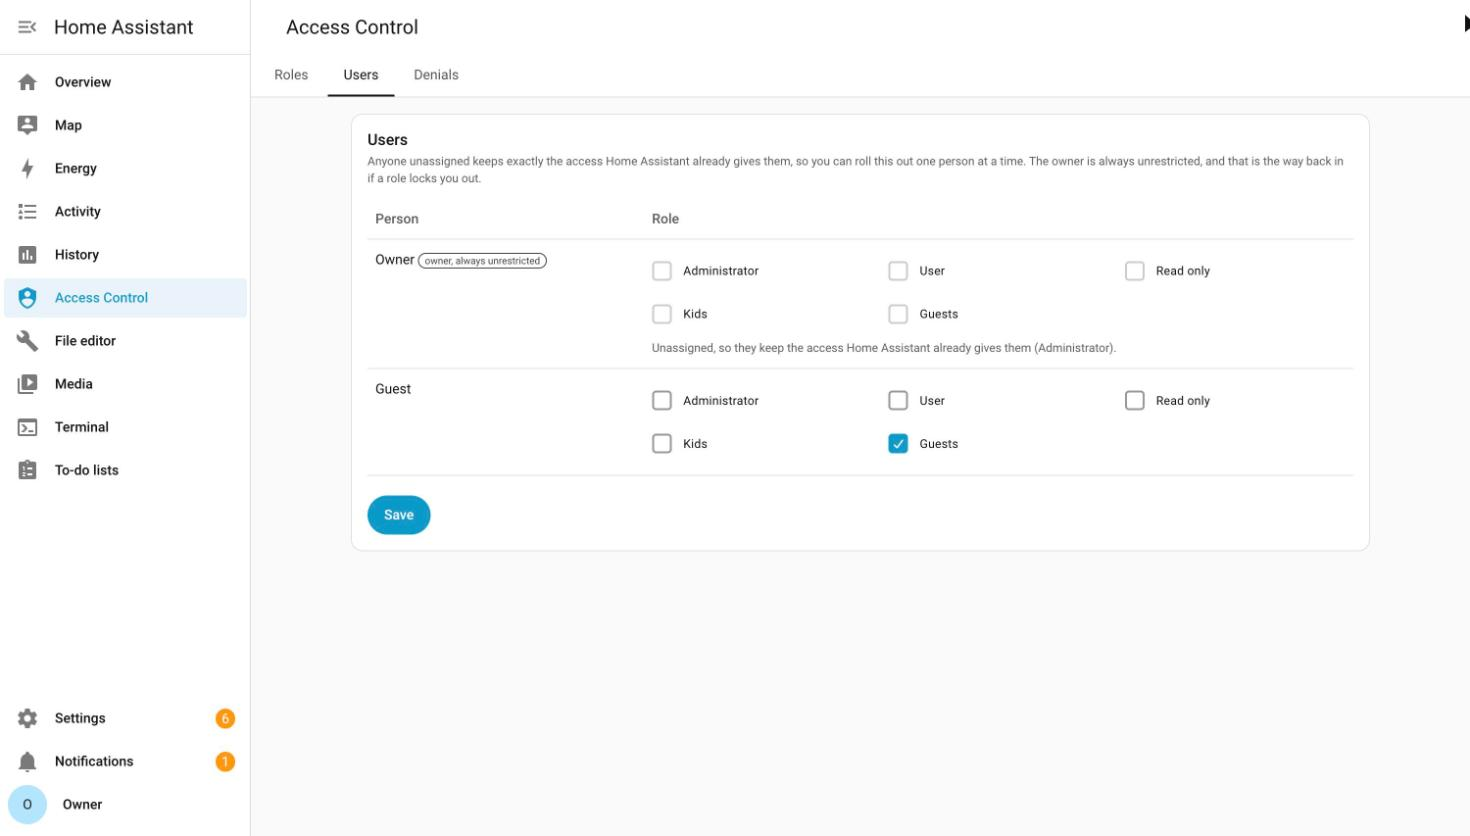
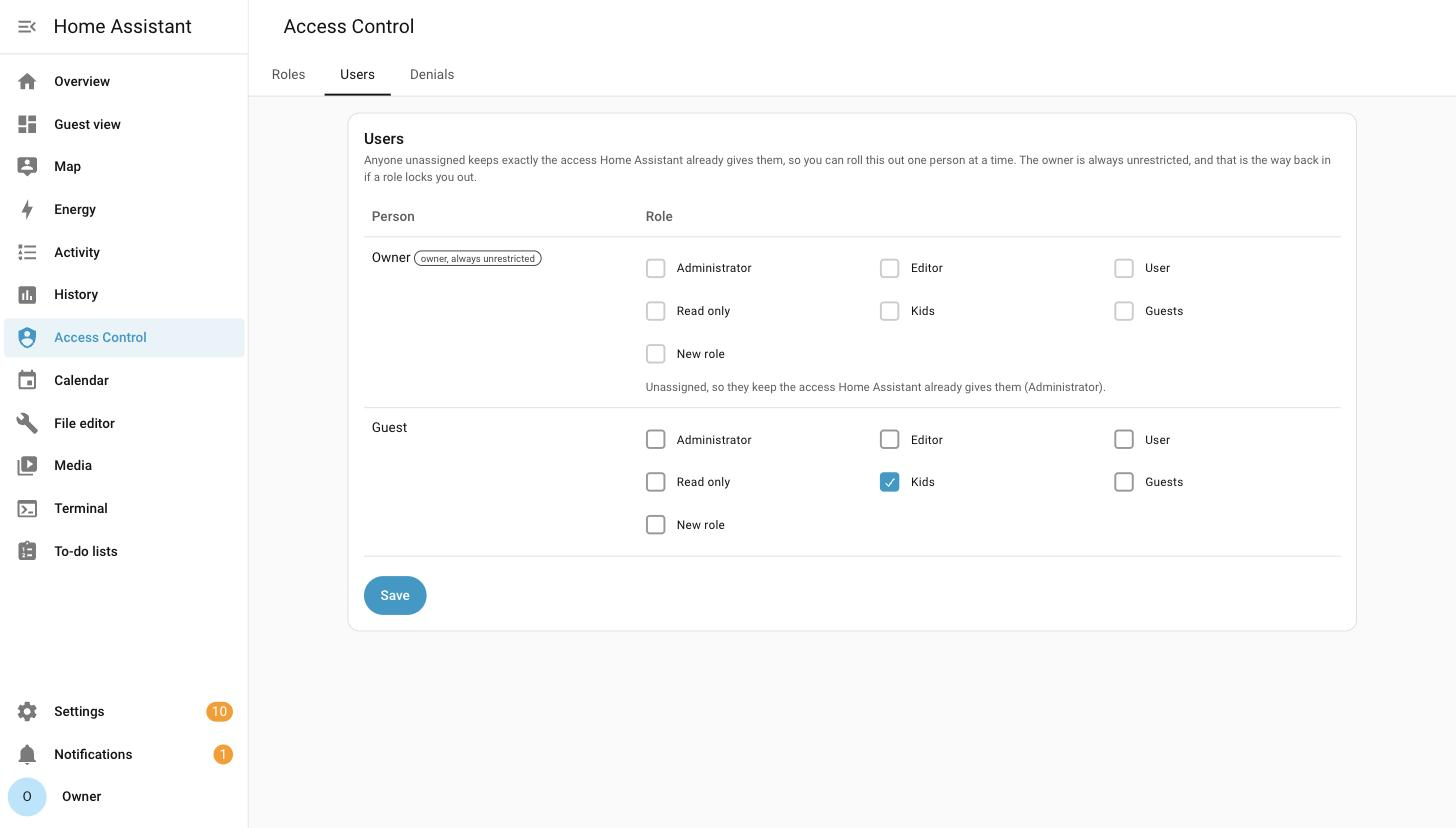
Reshoot the screenshots the panel outgrew
The hero still showed the role editor as one long form, from before it was
folded into sections, and the users table predates the Editor role, so neither
matched what anyone would see after installing.

Its caption went with it: the old one read the role out loud, which the picture
no longer does — it now shows the six sections and what each one currently
holds.

Denials is unchanged: the tab has not moved, and the log on the test instance is
empty after a day of restarts, so reshooting it would have replaced a populated
example with an empty one. The two guest-view shots want a restricted user's
session, which is not mine to take.

diff --git a/README.md b/README.md
@@ -19,7 +19,7 @@
   <img src="https://raw.githubusercontent.com/FezVrasta/ha-rbac/main/screenshots/panel-roles.jpg" alt="The Access Control panel, editing a Guests role" width="880">
 </p>
 
-<p align="center"><em>One role: see and control everything except the locks and cameras, and don't show anyone where people are.</em></p>
+<p align="center"><em>One role at a glance: where it can go, what it can see, what it can change. Each line opens.</em></p>
 
 ---
 
